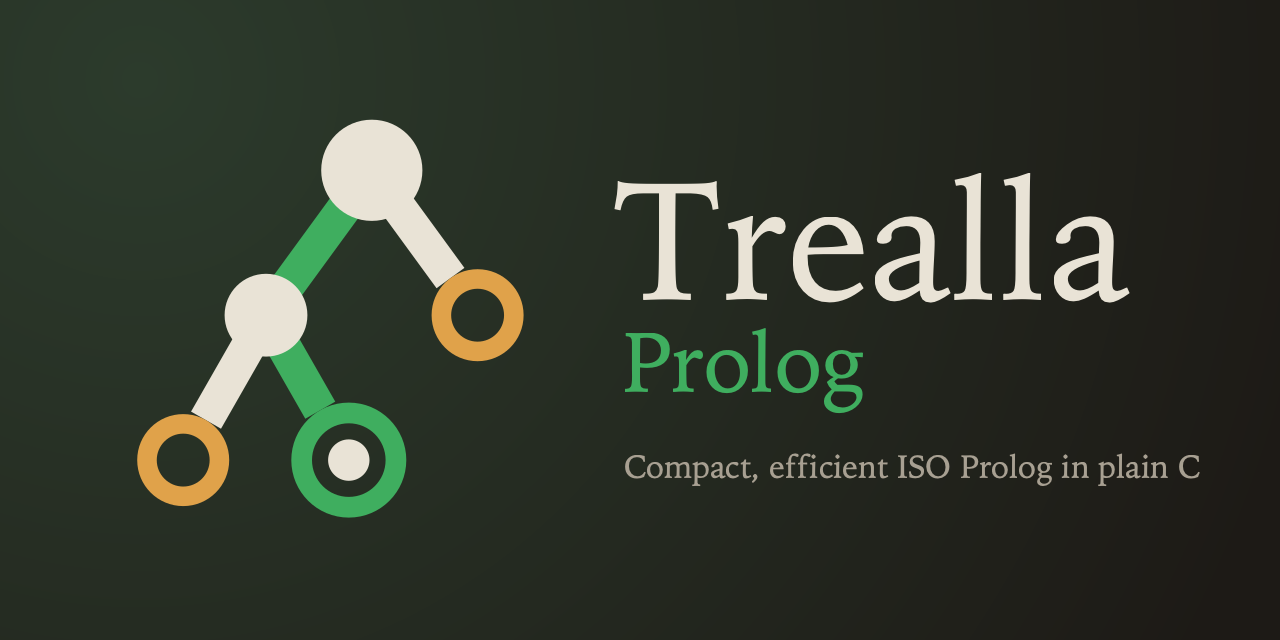
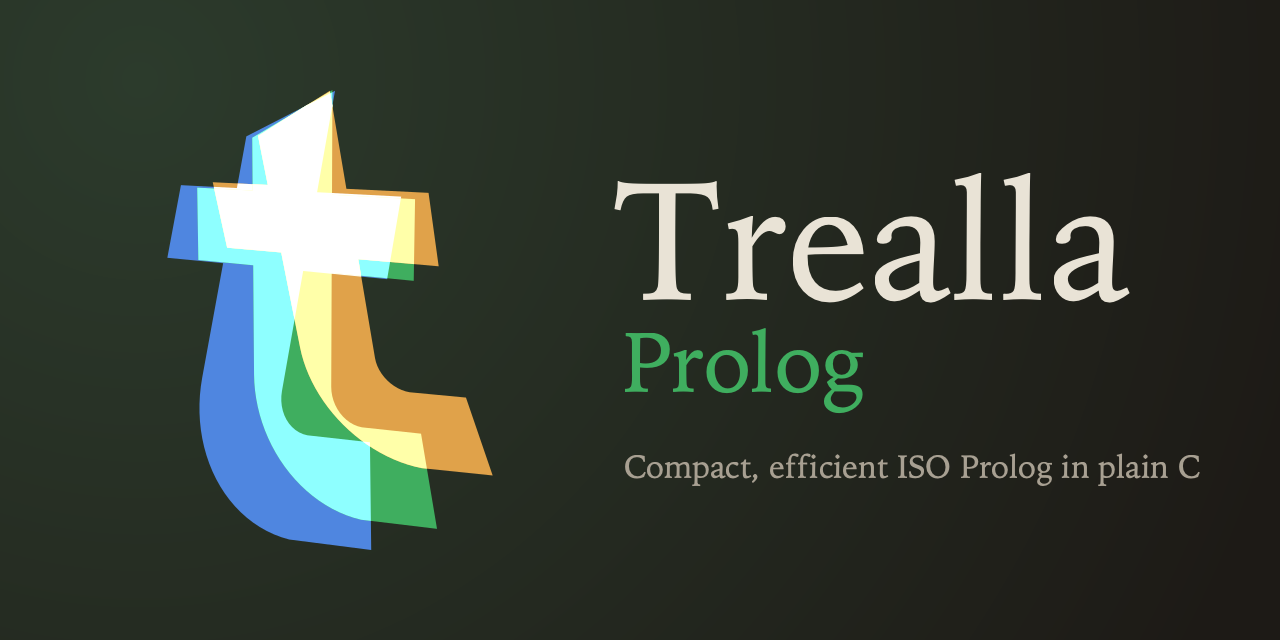
Replace the search-tree mark with three lowercase t's hinged at the top and fanning apart in additive light

Changed region(s): [[0.0938, 0.125, 0.4062, 0.875]]

diff --git a/README.md b/README.md
@@ -51,7 +51,7 @@ Runs with [Jupyter Notebooks](https://github.com/LogtalkDotOrg/logtalk-jupyter-k
 Logo
 ====
 
-<img src="site/src/assets/trealla-mark.svg" alt="The Trealla mark: a search tree with one path proved to a solution" width="160">
+<img src="site/src/assets/trealla-mark.svg" alt="The Trealla mark: three copies of a lowercase t, hinged together at the top and fanning apart in coloured light" width="160">
 
 
 Usage
